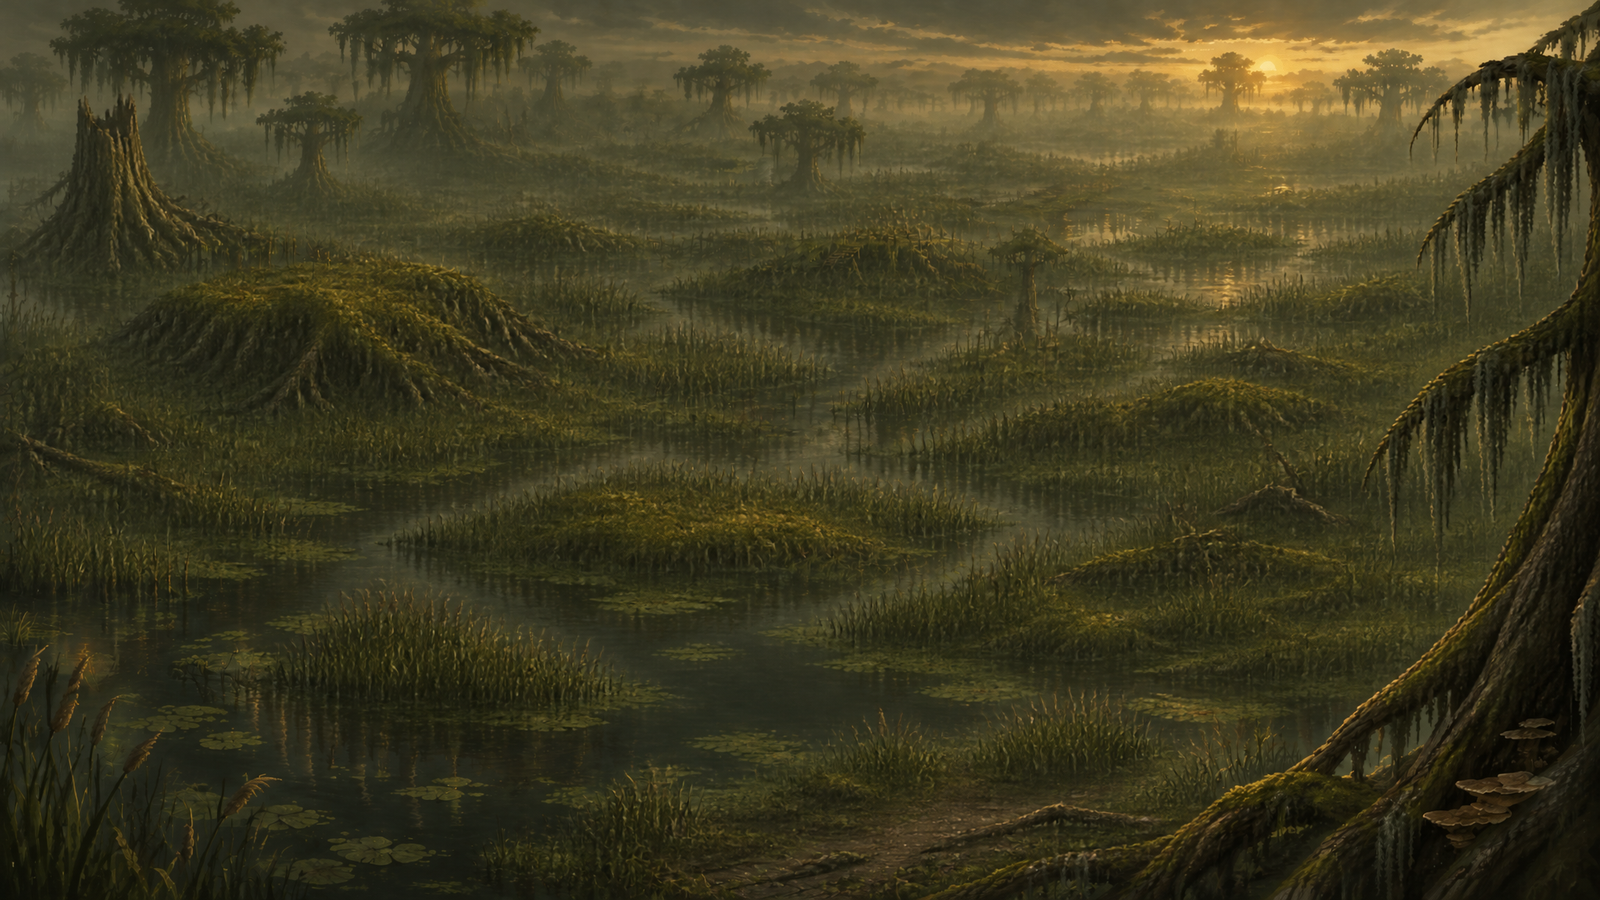
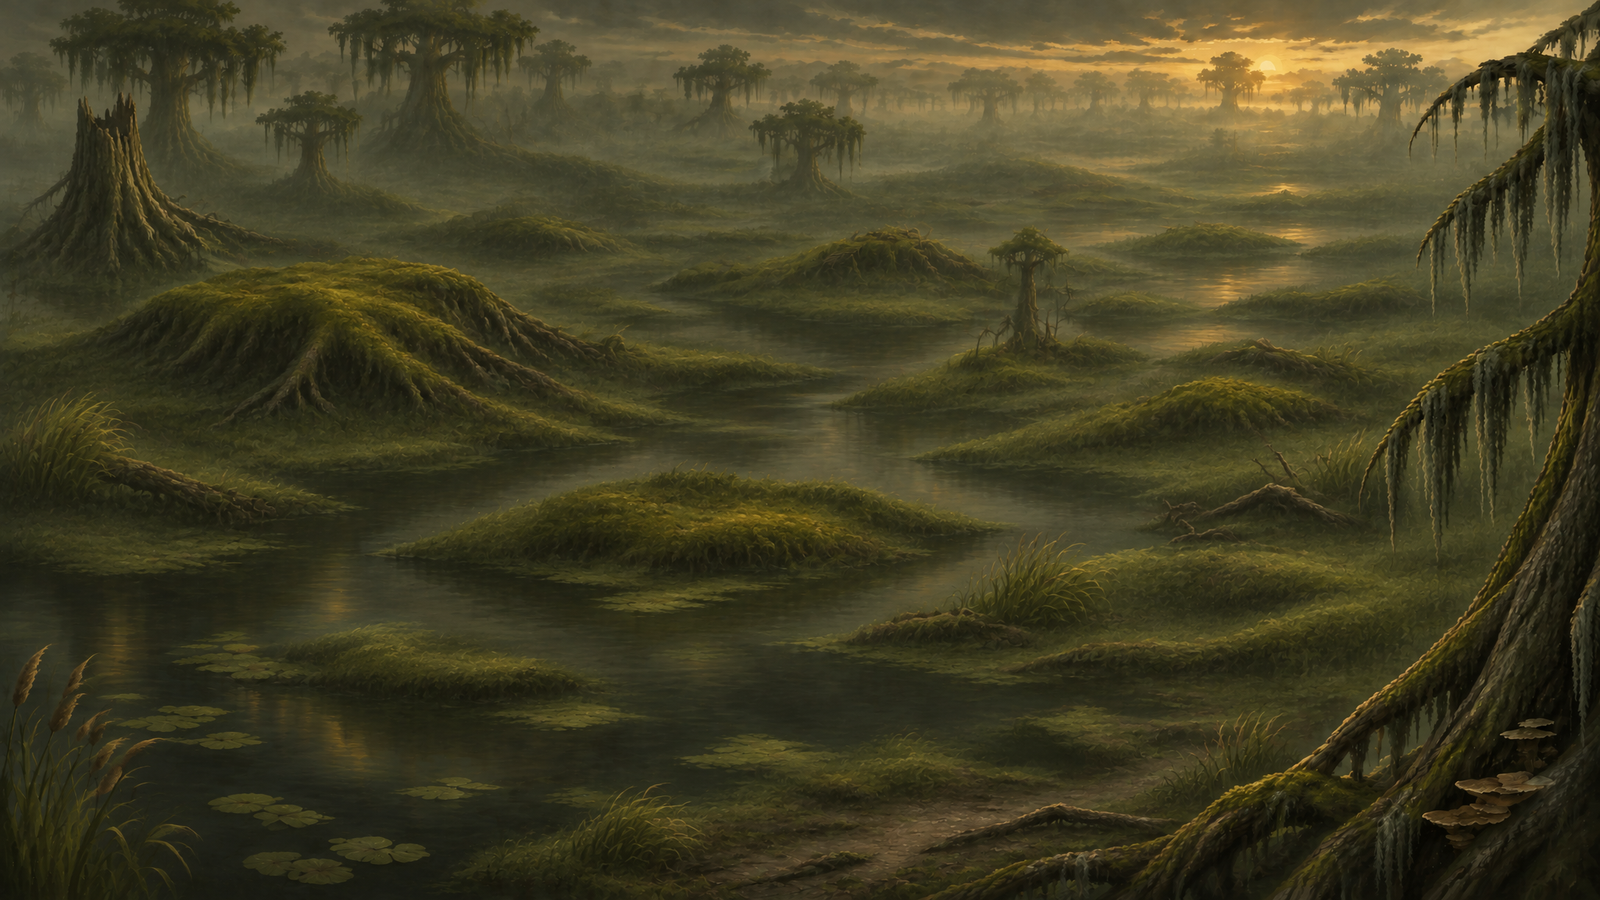
Mireclaw backdrop repainted without its vertical hatching
Owner, 2026-11-10: the backdrop "looks very streaky with vertical lines all
over"; chose candidate 1 of two repaints.

The first dusk fen drew the swamp floor as thousands of thin upright reed
strokes with upright reflections. Measured below the sky, its vertical edges
outweighed its horizontal ones (ratio 1.12; Embercourt 0.73, Veilmourn 0.83,
Brasshollow 0.76), with 15.2% of pixels dominated by upright strokes against
about 11.5% in the others.

- dusk_fen_v2.png: one unmasked edit of the first backdrop that keeps the
  layout (stump, root mound, island, mere, foreground tree) and paints the
  floor as moss cushions, matted grass, mud, lily pads and calm water, with
  reeds only as a few tufts. Ratio 0.75, upright-stroke pixels 6.4%.
- The 52 buildings are not repainted. The packet's backdrop.painted_on names
  the master they were painted on; package_town_plot_layers.py and
  town_plot_mattes.py cut against that one when it is present, and the
  runtime backdrop and the built picture come from the new one. All 52
  layers, hit masks and icons come out byte-identical.
- dusk_fen_fx_mask.py: water and land boxes re-seeded for the new water
  shapes (the mere, a middle pool, the far pools).

imggen spend 0.10 USD (two candidates).

Validation: the town screen on a generated Mireclaw start, part built and
fully built: the buildings sit on the new floor without seams; 30 frames at
fixed shader clock steps, 6.6% of the scene swings by more than 8 levels;
core suite 18/18.

diff --git a/tools/package_town_plot_layers.py b/tools/package_town_plot_layers.py
@@ -237,8 +237,16 @@ def main():
     if digest(master_path) != backdrop['source_sha256']:
         raise ValueError('Changed backdrop master: ' + str(master_path))
     master_image = Image.open(master_path).convert('RGB')
-    master = np.asarray(master_image).astype(np.float32)
     width, height = master_image.size
+    # A backdrop repainted after its buildings names the master they were painted on: the
+    # buildings are cut against that one, and drawn over the new one.
+    painted_image = master_image
+    if backdrop.get('painted_on'):
+        painted_path = ROOT / backdrop['painted_on']['source_path']
+        if digest(painted_path) != backdrop['painted_on']['source_sha256']:
+            raise ValueError('Changed painted-on master: ' + str(painted_path))
+        painted_image = Image.open(painted_path).convert('RGB')
+    master = np.asarray(painted_image).astype(np.float32)
     scene, layout = read(SCENE), read(LAYOUT)
     generation = packet['generation']
 
@@ -259,7 +267,7 @@ def main():
             raise ValueError('Changed matte: ' + str(matte_path))
         with Image.open(matte_path) as matte_image:
             matte = np.asarray(matte_image.convert('L')).astype(np.float32) / 255.0
-        (cx0, cy0), edit, alpha, building, solid = cut(master, full_edit(master_image, item), item, matte, settings)
+        (cx0, cy0), edit, alpha, building, solid = cut(master, full_edit(painted_image, item), item, matte, settings)
         ys, xs = np.nonzero(alpha > 0.004)
         ly0, ly1, lx0, lx1 = ys.min(), ys.max() + 1, xs.min(), xs.max() + 1
         layer = Image.fromarray(np.dstack([edit, alpha * 255.0])[ly0:ly1, lx0:lx1].round().astype(np.uint8), 'RGBA')

diff --git a/tools/town_plot_mattes.py b/tools/town_plot_mattes.py
@@ -148,8 +148,10 @@ def main():
     args = parser.parse_args()
     packet_path = (ROOT / args.packet).resolve()
     packet = json.loads(packet_path.read_text(encoding='utf-8'))
-    master_path = ROOT / packet['backdrop']['source_path']
-    if digest(master_path) != packet['backdrop']['source_sha256']:
+    # The master the buildings were painted on: the backdrop's own, unless it was repainted after them.
+    painted = packet['backdrop'].get('painted_on') or packet['backdrop']
+    master_path = ROOT / painted['source_path']
+    if digest(master_path) != painted['source_sha256']:
         raise ValueError('Changed backdrop master: ' + str(master_path))
     master = Image.open(master_path).convert('RGB')
     width, height = master.size

diff --git a/docs/common-town-building-template.md b/docs/common-town-building-template.md
@@ -277,4 +277,4 @@ The 2026-09 Veilmourn items in `production.json` are inactive.
 
 Embercourt was repainted the same way on 2026-11-10 (owner's choice: concept C, the lock gorge), the first town planned with its Shipyard from the start. Its 24 plots were drawn on a plan sketch first. The first plan looked straight up a river with every block the same size, and the owner rejected its concepts as flat, like the first Brasshollow drafts. The second plan is seen from high on the right wall of a deep gorge: the river winds in from the sunset, drops through a staircase of four locks on a rock step and opens into a harbour basin; far plots are small and near ones large. The army panel covers only basin water, and the Shipyard has its own plot on the basin's near shore. The village backdrop is the concept with the town painted out; that edit moved some ledges, so the plots were fitted to the emptied gorge, not to the concept. The Fort line is a river barrage in the far distance, the tier-6 drakes have a sluice pen in the basin (`matte_passes`, as the Veilmourn sea pens) and the tier-7 colossus has a tall plot on the right slope. The packet is `art/towns/source/generated/overhaul/faction_embercourt/lock_gorge.json`. The stage glows sit on the sunset on the far river and the locks' fire baskets. Its `stage_effects` are water that sways and glints on the basin and the river above the locks, the four lock falls streaming down, the fire baskets on the lock piers flickering (`beacons`: the backdrop's lamp flicker alone, where the mask's blue puts it) and fire light in the buildings at 0.6 (`windows`). At full strength the windows' fire test also caught lantern-lit awnings and the colossus' bronze in this sunset palette. `lock_gorge_fx_mask.py` beside the packet rebuilds the mask: hand-drawn zones, GrabCut for the basin's shores, the river picked by its light, the falls by their white paint and the fires by their flames. Measured beside the other two towns, those effects moved only in spots, so the gorge also has `mist`: pale gold haze bands that drift through the far gorge and across the locks, and spray around each fall, where the mask's alpha puts them. The layout's `stage_mist` gives the drifting fog its colour, wind and cover for this painting; without it a town gets the bell fjord's blue-grey fog. A first pass in the hills' own colour at 0.6 thickness could not be seen.
 
-Mireclaw was repainted the same way on 2026-11-10 (owner's choice: concept D, the dusk fen). The first plan was a drowned gorge with a channel winding into the distance and the tier-7 antlered beast in a flooded pen; the owner rejected it: Mireclaw should feel more swampy and less like a river, and the elk should not be in the water. The accepted plan has no river: still pools, reed beds, mud and mossy hummocks under giant cypresses, an open mere at the lower left under the army panel, the drum hall on a root mound, and the beast on a dry mossy island. The Shipyard is a chain-ferry yard on the mere's near bank, right of the army panel. The great tree at the right edge is in the foreground, so no plot stands over it. The packet is `art/towns/source/generated/overhaul/faction_mireclaw/dusk_fen.json`. The stage glows sit on the horizon glow, its glints on the far pools and the drum hall's fire. Its `stage_effects` are water that sways and glints on the mere and the far pools, mist bands drifting across the whole swamp (`stage_mist`: a pale olive, a slow wind to the left; thickest far off, none on the sky or the foreground tree), a few wisps over the water and fire light in the buildings at 0.8. `dusk_fen_fx_mask.py` beside the packet rebuilds the mask.
+Mireclaw was repainted the same way on 2026-11-10 (owner's choice: concept D, the dusk fen). The first plan was a drowned gorge with a channel winding into the distance and the tier-7 antlered beast in a flooded pen; the owner rejected it: Mireclaw should feel more swampy and less like a river, and the elk should not be in the water. The accepted plan has no river: still pools, reed beds, mud and mossy hummocks under giant cypresses, an open mere at the lower left under the army panel, the drum hall on a root mound, and the beast on a dry mossy island. The Shipyard is a chain-ferry yard on the mere's near bank, right of the army panel. The great tree at the right edge is in the foreground, so no plot stands over it. The packet is `art/towns/source/generated/overhaul/faction_mireclaw/dusk_fen.json`. The stage glows sit on the horizon glow, its glints on the far pools and the drum hall's fire. Its `stage_effects` are water that sways and glints on the mere and the far pools, mist bands drifting across the whole swamp (`stage_mist`: a pale olive, a slow wind to the left; thickest far off, none on the sky or the foreground tree), a few wisps over the water and fire light in the buildings at 0.8. `dusk_fen_fx_mask.py` beside the packet rebuilds the mask. The first backdrop drew the swamp floor as thousands of thin upright reed strokes with upright reflections; the owner found it very streaky, with vertical lines all over (its vertical edges outweighed its horizontal ones, 1.12 against 0.73 to 0.83 in the other towns). The floor was repainted in one edit that keeps the layout (`dusk_fen_v2.png`, ratio 0.75): moss cushions, matted grass, mud, lily pads and calm water, with reeds only as a few tufts. The buildings were not repainted: the packet's `backdrop.painted_on` names the master they were painted on, both tools cut them against that one, and the game draws them over the new one.

diff --git a/PLAN.md b/PLAN.md
@@ -52,6 +52,7 @@ None open.
 
 ## Open work
 
+- `town-art-mireclaw-backdrop-v2-20261110` (in progress): The owner found the dusk fen backdrop very streaky, with vertical lines all over: its floor was thin upright reed strokes. Repaint the floor in one edit that keeps the layout (owner's pick, candidate 1), keep the 52 building layers by cutting them against the master they were painted on (backdrop.painted_on in both tools), rebuild the built picture and the effect mask. See `docs/common-town-building-template.md`.
 - `native-rules-phase7-14-campaign-20261023` (pending): port the campaign runtime to C++, together with the campaign rework (D-f). See `docs/native-rules-engine-transition.md`.
 - `content-authored-scenarios-obsolete-20261005` (paused): hold on all authored maps, scenarios and campaigns until the owner selects their rework. See `docs/authored-scenarios-obsolete.md`.
 - `playable-alpha-scenario-set-10184` (paused): Phase 5 umbrella: several scenarios and skirmish setups played end to end, with save/load, outcomes, AI pressure and a viable economy. Waits for the authored-content rework.
